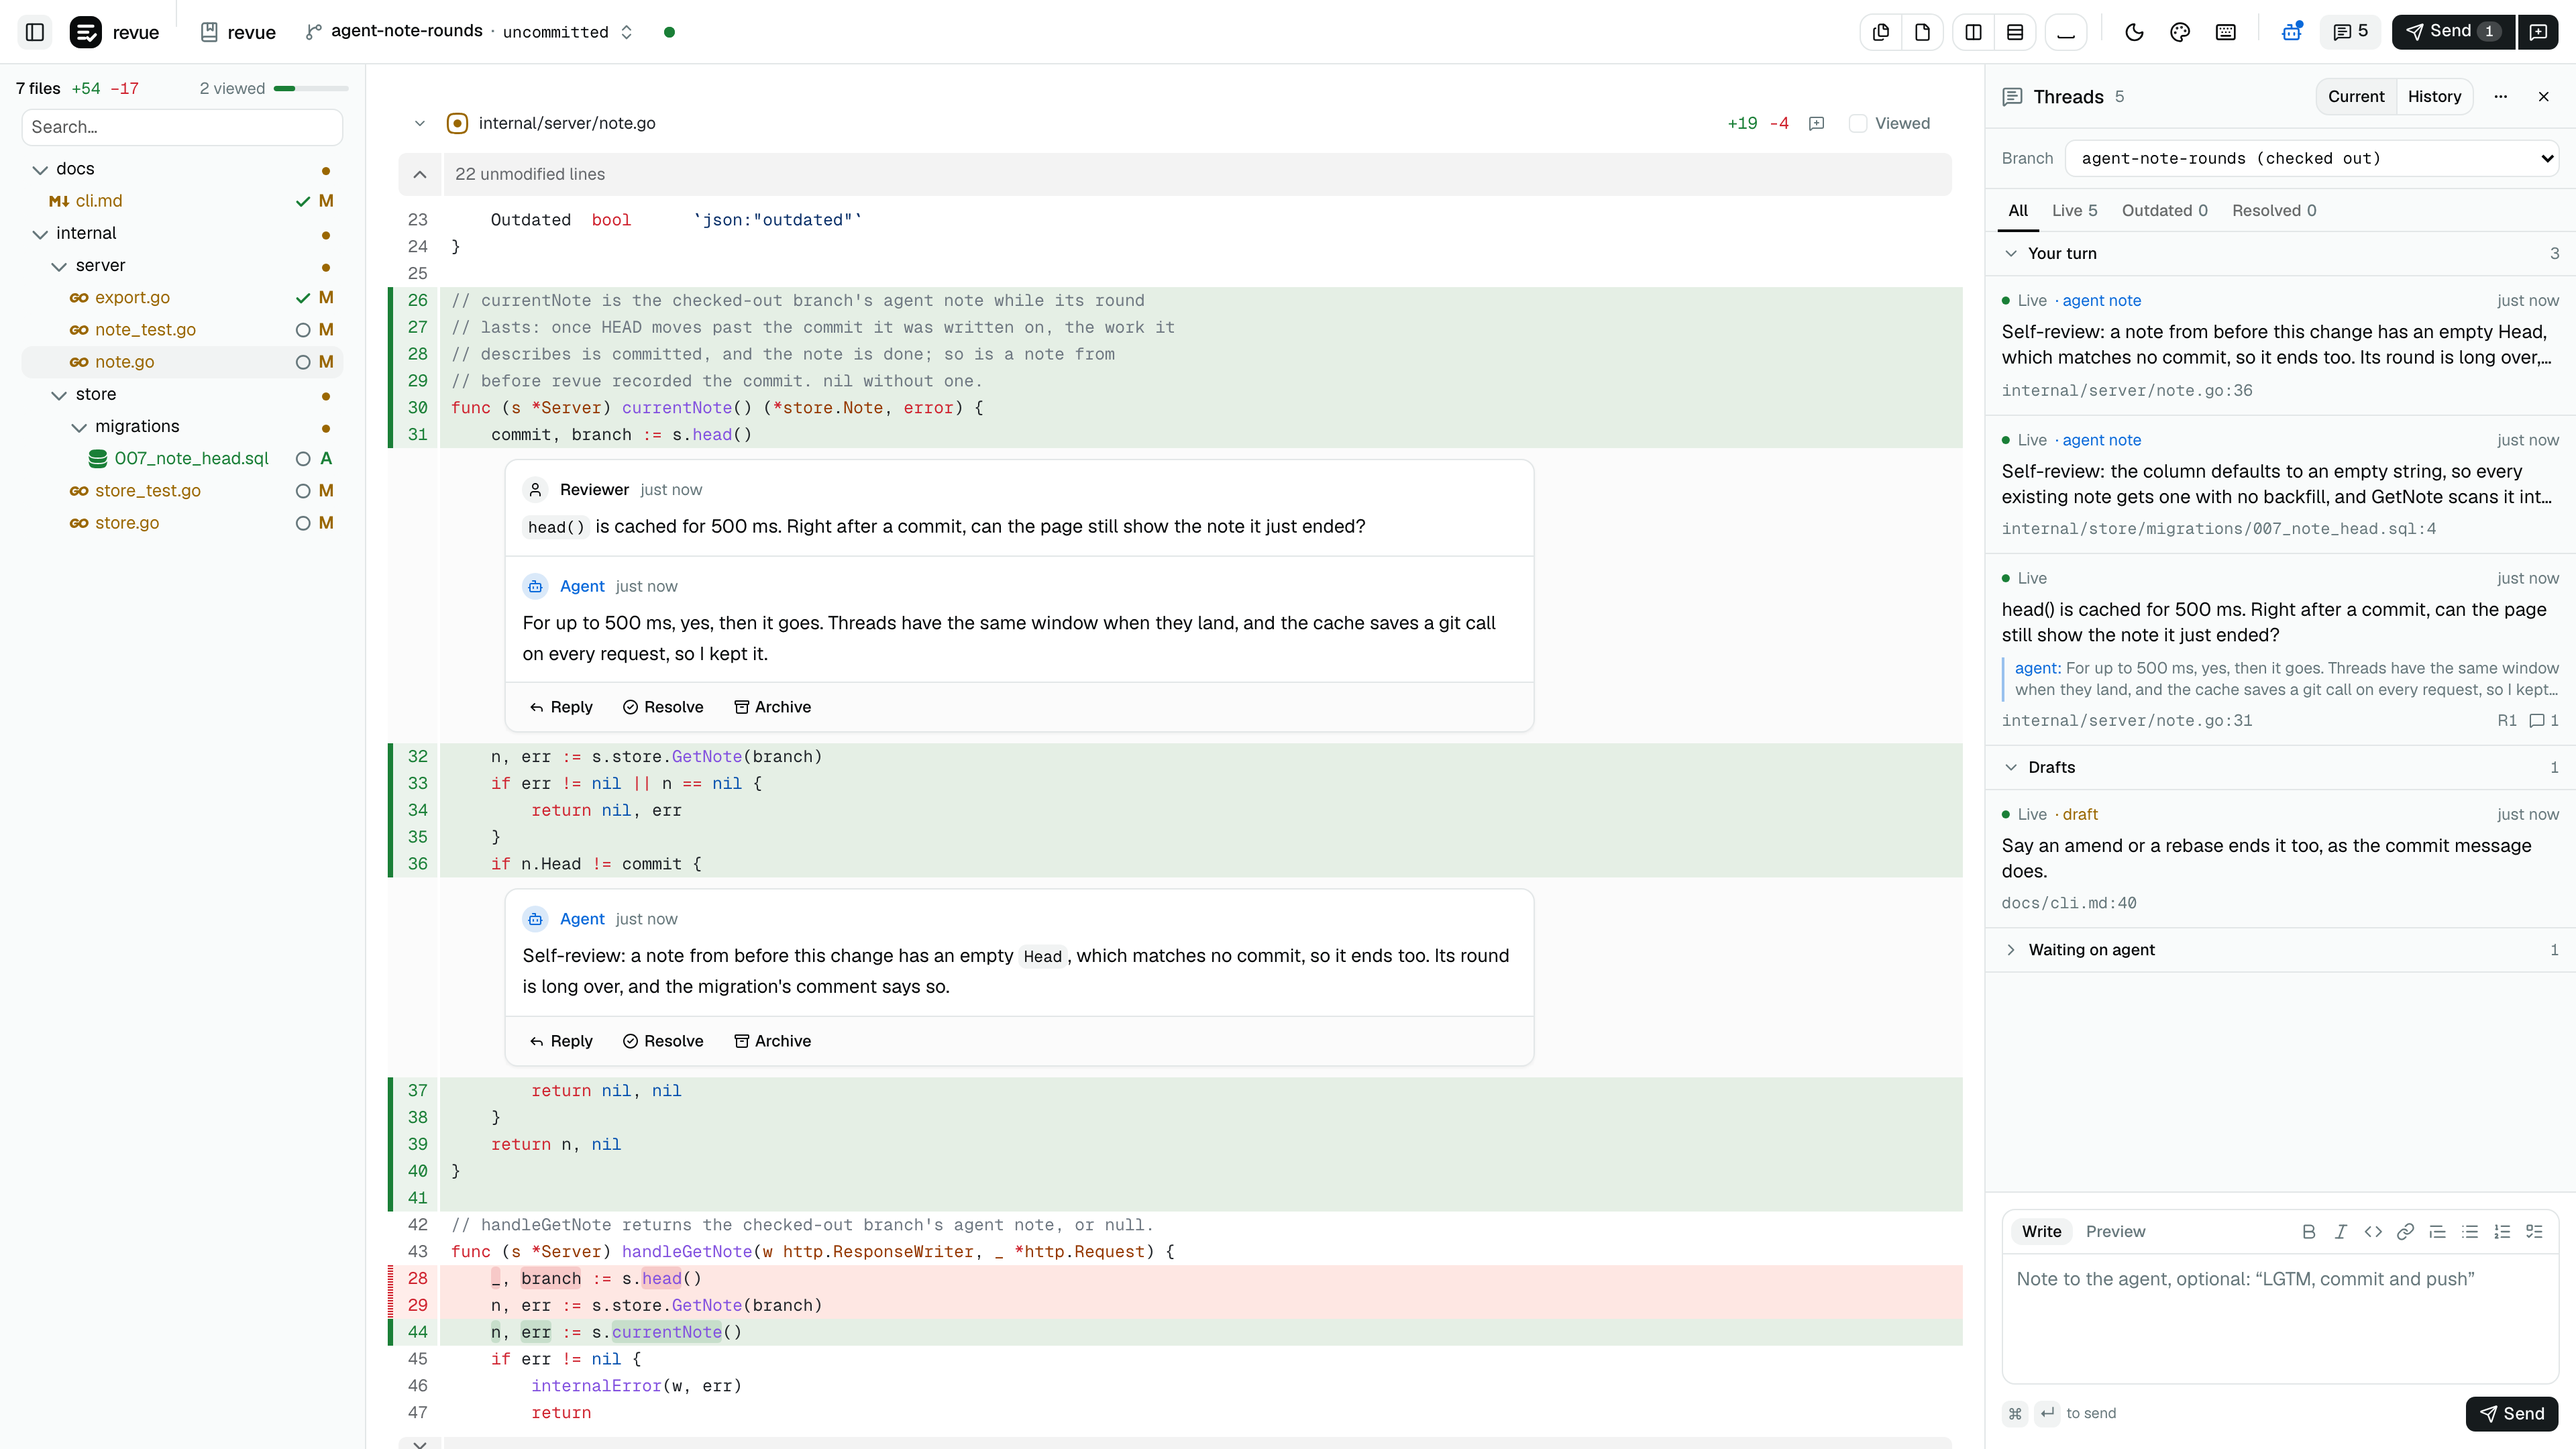
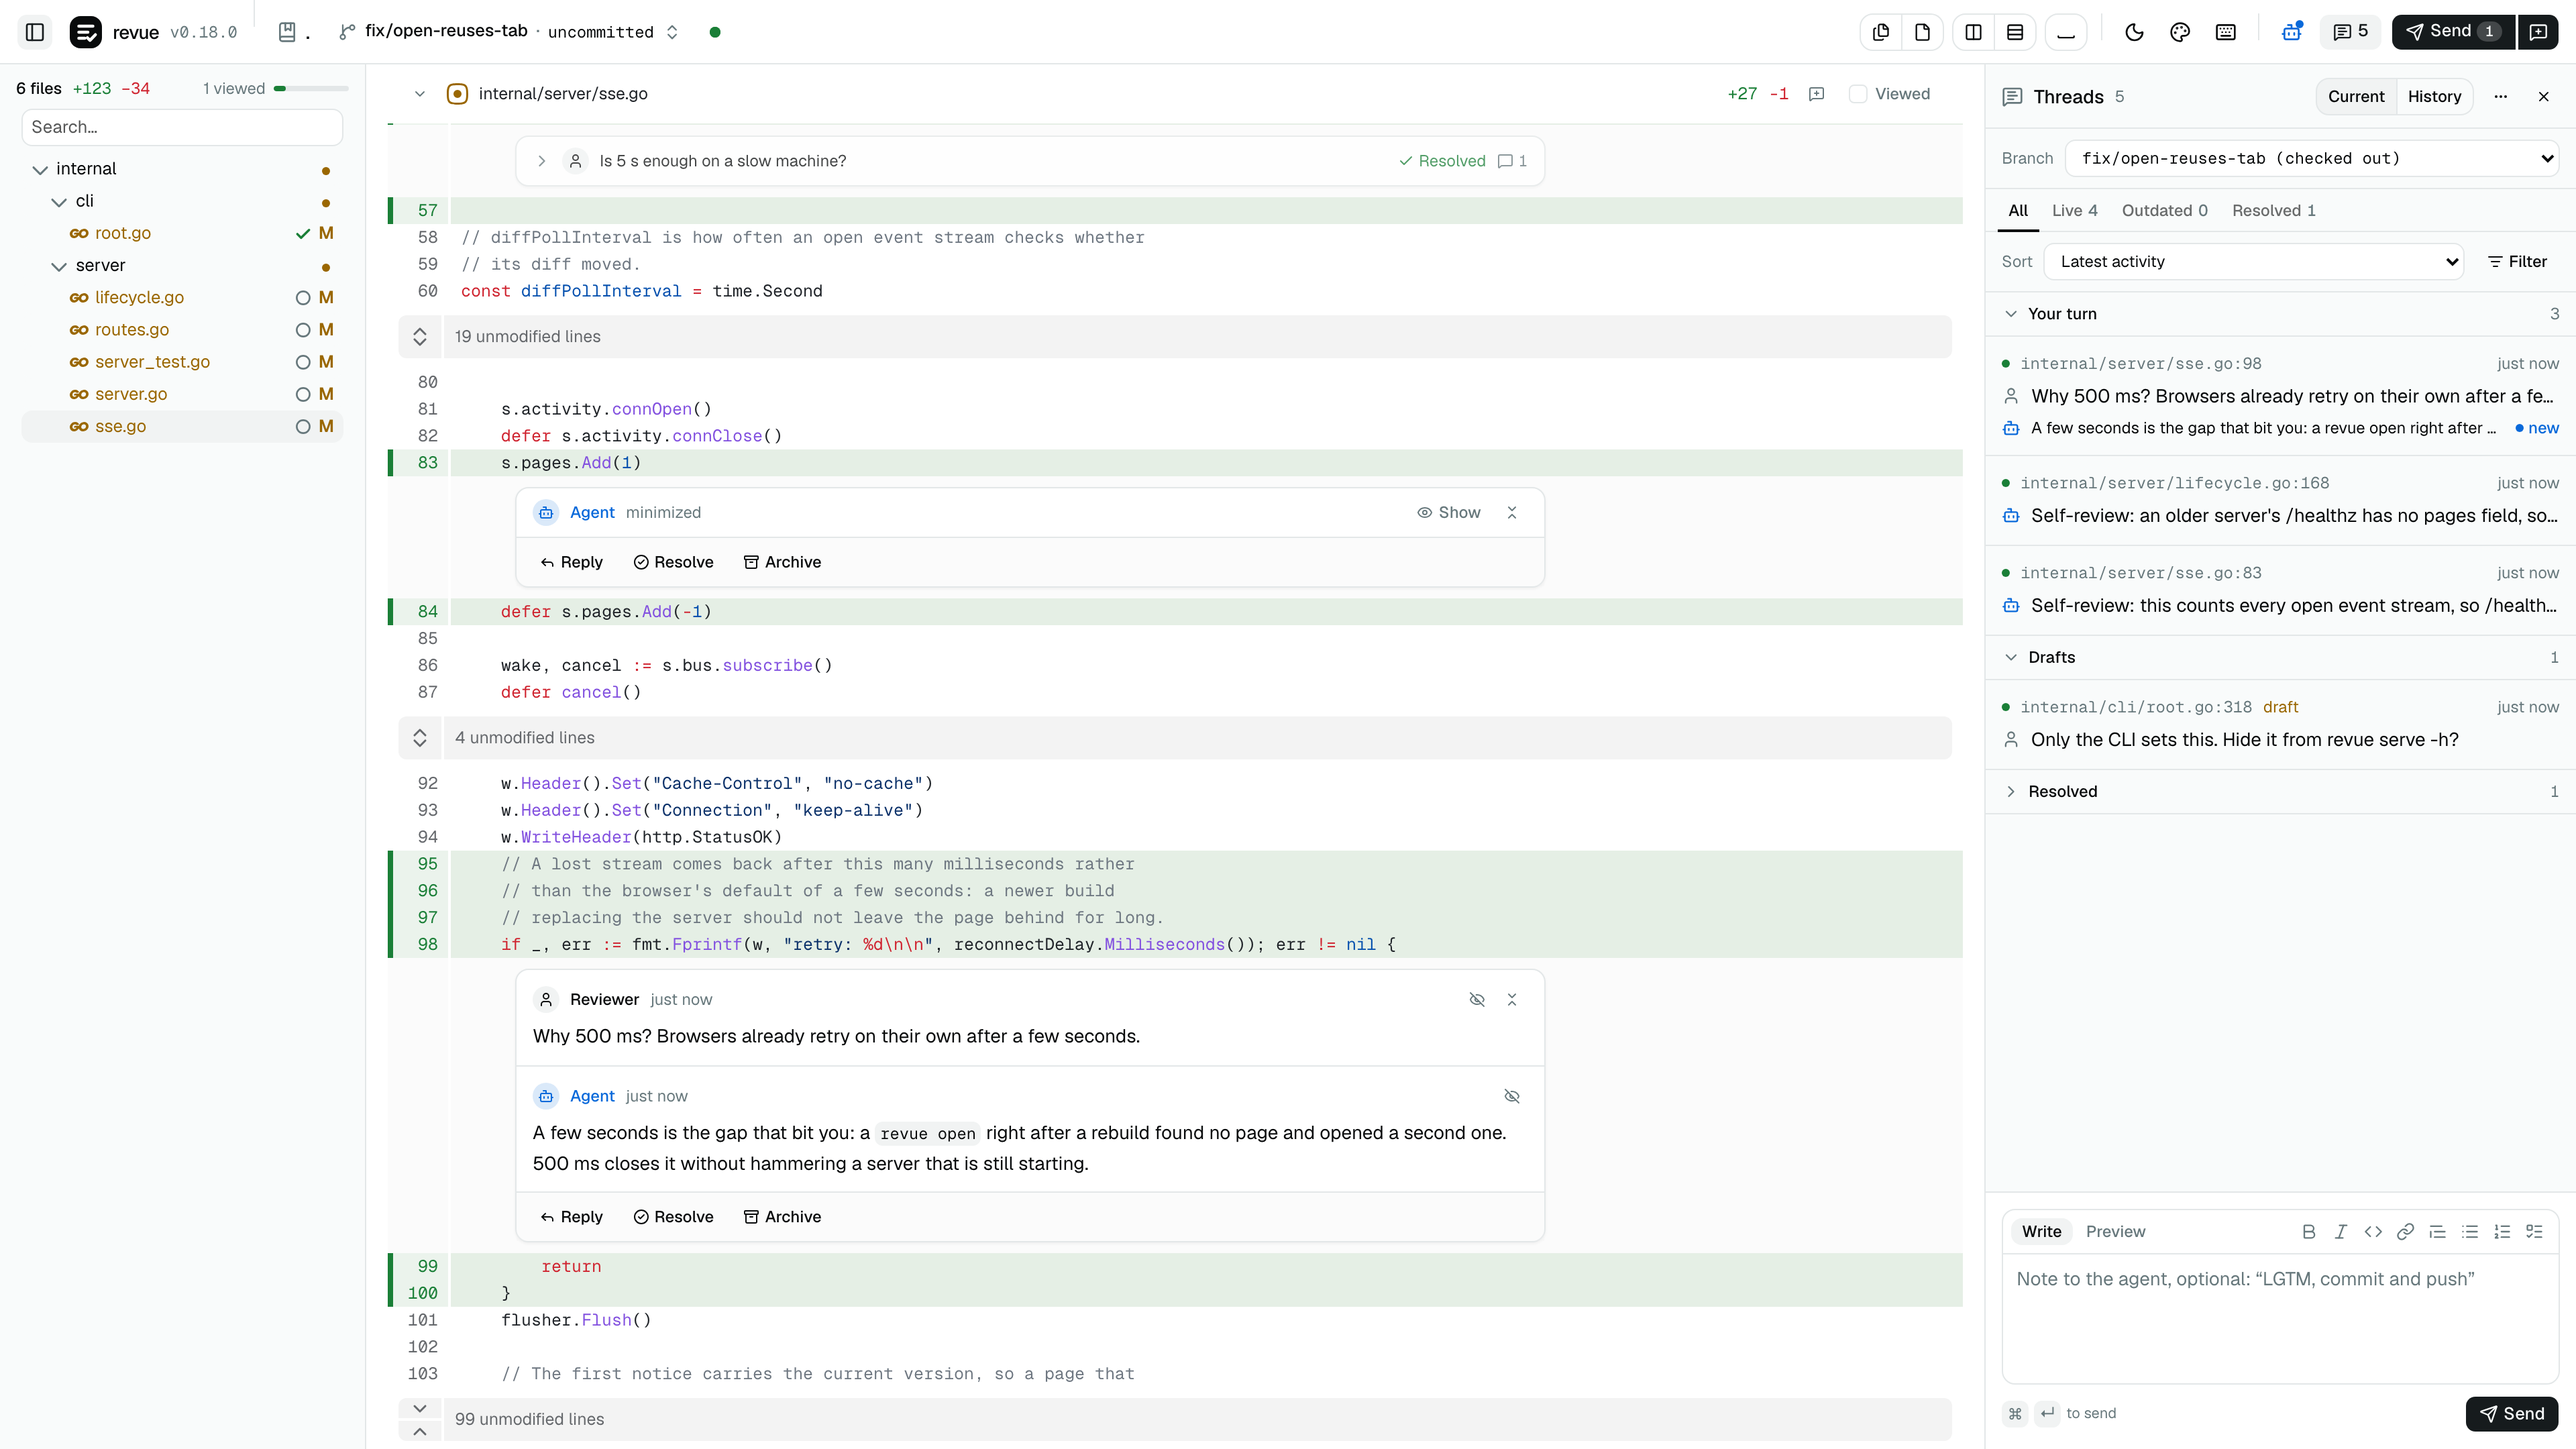
docs: show folded, minimized, and new-reply threads in the README screenshot
The screenshot, light and dark at 1080p, reviews one of revue's own
fixes: a question with the agent's new answer, a resolved thread folded
to one line, a minimized agent note, and the threads panel with each
thread's location, first comment, and latest reply.

diff --git a/README.md b/README.md
@@ -11,7 +11,7 @@ Review what your coding agent wrote the way you review a pull request, without p
 
 <picture>
   <source media="(prefers-color-scheme: dark)" srcset="docs/screenshot-dark.png">
-  <img src="docs/screenshot.png" alt="revue reviewing one of its own Go changes: a reviewer's question with the agent's answer and an agent self-review note inline on the diff, viewed files in the tree, and the threads panel sorted by whose turn it is" width="1920">
+  <img src="docs/screenshot.png" alt="revue reviewing one of its own Go changes: a reviewer's question with the agent's new answer, a resolved thread folded to one line, and a minimized agent note inline on the diff, with the threads panel showing each thread's location, first comment, and latest reply" width="1920">
 </picture>
 
 ## Install
